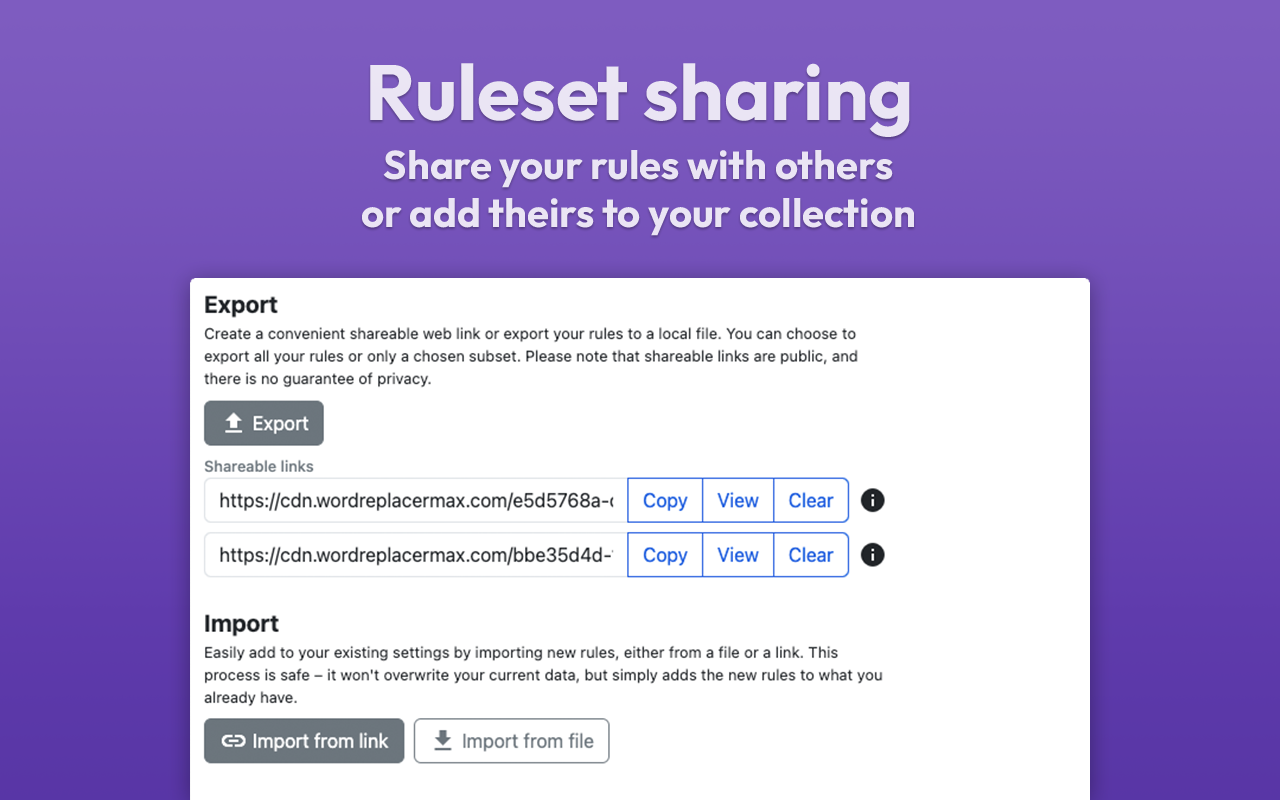
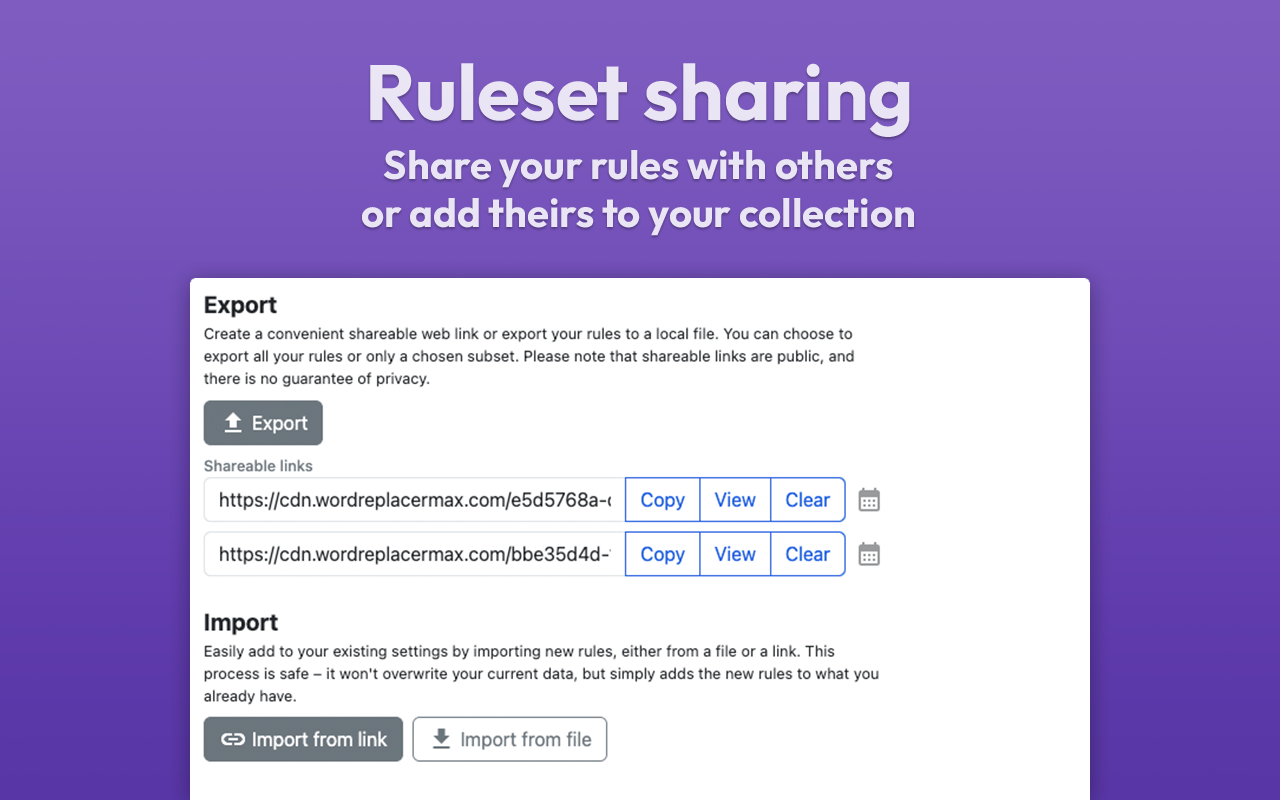
chore(popup): lighten calendar tooltip

Changed region(s): [[0.1562, 0.375, 0.6875, 0.75], [0.1562, 0.75, 0.6875, 0.9688]]

diff --git a/packages/popup/src/containers/Options/ExportLinks.tsx b/packages/popup/src/containers/Options/ExportLinks.tsx
@@ -112,7 +112,9 @@ export default function ExportLink() {
                 </Button>
               </div>
               <Tooltip title={`Created ${formatUnixTimestamp(identifier)}`}>
-                <span className="material-icons-sharp">info</span>
+                <span className="material-icons-sharp text-body-tertiary">
+                  calendar_month
+                </span>
               </Tooltip>
             </div>
           </div>
